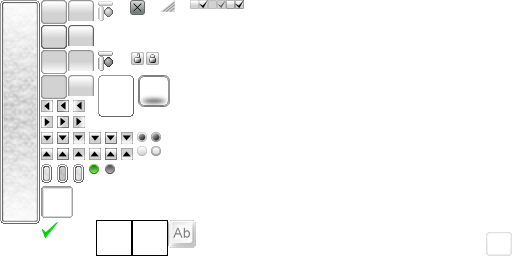
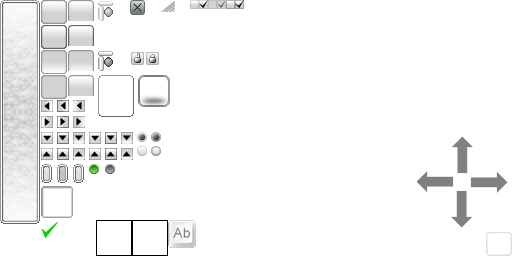
Add support for show images in on screen buttons center.
New theme files:
    dbutton_image.xml
    dpad_image.xml

Changed region(s): [[0.8125, 0.5312, 1.0, 0.9062]]

diff --git a/src/touchmanager.cpp b/src/touchmanager.cpp
@@ -75,7 +75,7 @@ void TouchManager::init()
     setHalfJoyPad(getPadSize() / 2);
 
 #ifdef ANDROID
-    loadTouchItem(&mKeyboard, "keyboard_icon.xml", -1, -1, 28, 28, NORMAL,
+    loadTouchItem(&mKeyboard, "keyboard_icon.xml", "", -1, -1, 28, 28, NORMAL,
         nullptr, nullptr, &showKeyboard, nullptr);
 #endif
 
@@ -86,6 +86,7 @@ void TouchManager::init()
 }
 
 void TouchManager::loadTouchItem(TouchItem **item, std::string name,
+                                 std::string imageName,
                                  int x, int y, int width, int height, int type,
                                  TouchFuncPtr fAll, TouchFuncPtr fPressed,
                                  TouchFuncPtr fReleased, TouchFuncPtr fOut)
@@ -97,6 +98,12 @@ void TouchManager::loadTouchItem(TouchItem **item, std::string name,
     ImageRect *images = new ImageRect;
     for (int f = 0; f < 9; f ++)
         images->grid[f] = nullptr;
+
+    Image *icon;
+    if (imageName.empty())
+        icon = nullptr;
+    else
+        icon = Theme::getImageFromThemeXml(imageName, "");
 
     Skin *const skin = theme->loadSkinRect(*images, name, "");
     if (skin)
@@ -125,7 +132,7 @@ void TouchManager::loadTouchItem(TouchItem **item, std::string name,
             }
             *item = new TouchItem(gcn::Rectangle(x, y,
                 width + pad2, height + pad2), type,
-                images, x + pad, y + pad, width, height,
+                images, icon,  x + pad, y + pad, width, height,
                 fAll, fPressed, fReleased, fOut);
             mObjects.push_back(*item);
         }
@@ -165,6 +172,13 @@ void TouchManager::draw()
                 {
                     mainGraphics->calcWindow(mVertexes, item->x, item->y,
                         item->width, item->height, *item->images);
+                    const Image *const icon = item->icon;
+                    if (icon)
+                    {
+                        mainGraphics->calcTile(mVertexes, icon,
+                            item->x + (item->width - icon->mBounds.w) / 2,
+                            item->y + (item->height - icon->mBounds.h) / 2);
+                    }
                 }
             }
         }
@@ -181,6 +195,13 @@ void TouchManager::draw()
             {
                 mainGraphics->drawImageRect(item->x, item->y,
                     item->width, item->height, *item->images);
+                const Image *const icon = item->icon;
+                if (icon)
+                {
+                    mainGraphics->drawImage(icon,
+                        item->x + (item->width - icon->mBounds.w) / 2,
+                        item->y + (item->height - icon->mBounds.h) / 2);
+                }
             }
         }
     }
@@ -284,6 +305,11 @@ void TouchManager::unload(TouchItem *item)
             theme->unloadRect(*item->images);
             delete item->images;
             item->images = nullptr;
+            if (item->icon)
+            {
+                item->icon->decRef();
+                item->icon = nullptr;
+            }
         }
         delete item;
     }
@@ -310,7 +336,7 @@ void TouchManager::unloadTouchItem(TouchItem **unloadItem)
 void TouchManager::loadPad()
 {
     const int sz = (mJoystickSize + 2) * 50;
-    loadTouchItem(&mPad, "dpad.xml", -1, -1, sz, sz, LEFT,
+    loadTouchItem(&mPad, "dpad.xml", "dpad_image.xml", -1, -1, sz, sz, LEFT,
         &padEvents, &padClick, &padUp, &padOut);
 }
 
@@ -330,11 +356,12 @@ void TouchManager::loadButtons()
         const int pad2 = 2 * pad;
         const int skipWidth = pad2 + sz + x;
 
-        loadTouchItem(&mAttack, "dbutton.xml", x, y, sz, sz, RIGHT,
-            nullptr, &attackClick, nullptr, nullptr);
+        loadTouchItem(&mAttack, "dbutton.xml", "dbutton_image.xml", x, y,
+            sz, sz, RIGHT, nullptr, &attackClick, nullptr, nullptr);
 
-        loadTouchItem(&mCancel, "dbutton.xml", skipWidth, y, sz, sz, RIGHT,
-            nullptr, &cancelClick, nullptr, nullptr);
+        loadTouchItem(&mCancel, "dbutton.xml", "dbutton_image.xml",
+            skipWidth, y, sz, sz, RIGHT, nullptr, &cancelClick,
+            nullptr, nullptr);
 
         theme->unload(skin);
     }

diff --git a/src/touchmanager.h b/src/touchmanager.h
@@ -47,12 +47,13 @@ const int actionsSize = Input::KEY_TOTAL;
 struct TouchItem final
 {
     TouchItem(const gcn::Rectangle rect0, int type0, ImageRect *const images0,
-              int x0, int y0, int width0, int height0,
+              Image *const icon0, int x0, int y0, int width0, int height0,
               TouchFuncPtr ptrAll, TouchFuncPtr ptrPressed,
               TouchFuncPtr ptrReleased, TouchFuncPtr ptrOut) :
         rect(rect0),
         type(type0),
         images(images0),
+        icon(icon0),
         x(x0),
         y(y0),
         width(width0),
@@ -69,6 +70,7 @@ struct TouchItem final
     gcn::Rectangle rect;
     int type;
     ImageRect *images;
+    Image *icon;
     int x;
     int y;
     int width;
@@ -102,6 +104,7 @@ class TouchManager final : public ConfigListener
         void init();
 
         void loadTouchItem(TouchItem **item, std::string name,
+                           std::string imageName,
                            int type, int x, int y, int width, int height,
                            TouchFuncPtr fAll, TouchFuncPtr fPressed,
                            TouchFuncPtr fReleased, TouchFuncPtr fOut);

diff --git a/src/touchactions.cpp b/src/touchactions.cpp
@@ -51,7 +51,6 @@ impHandler0(showKeyboard)
 
 void setHalfJoyPad(int s)
 {
-    logger->log("set size: %d", s);
     haldJoyPad = s;
 }
 
